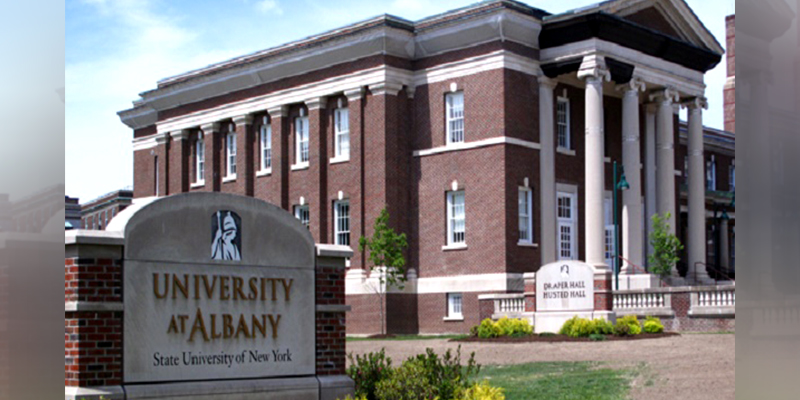
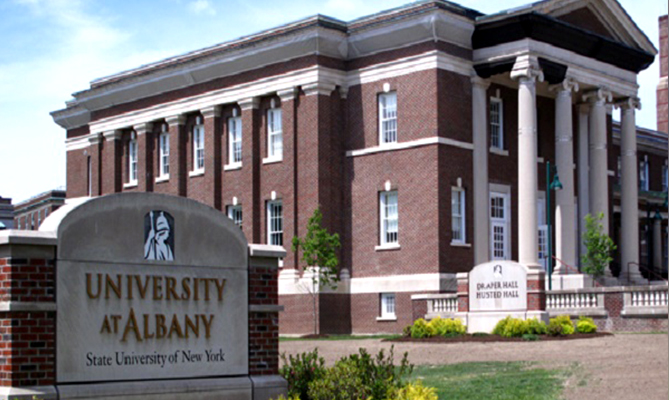
ok

diff --git a/index.html b/index.html
@@ -953,7 +953,7 @@
           <!-- Left Side Ends -->
           <!-- Contact Form Starts -->
           <div class="col-12 col-lg-7">
-           <img src="img/collage.jpg">
+           <img class="img-fluid" src="img/collage.jpg">
           </div>
           <!-- Contact Form Ends -->
         </div>
